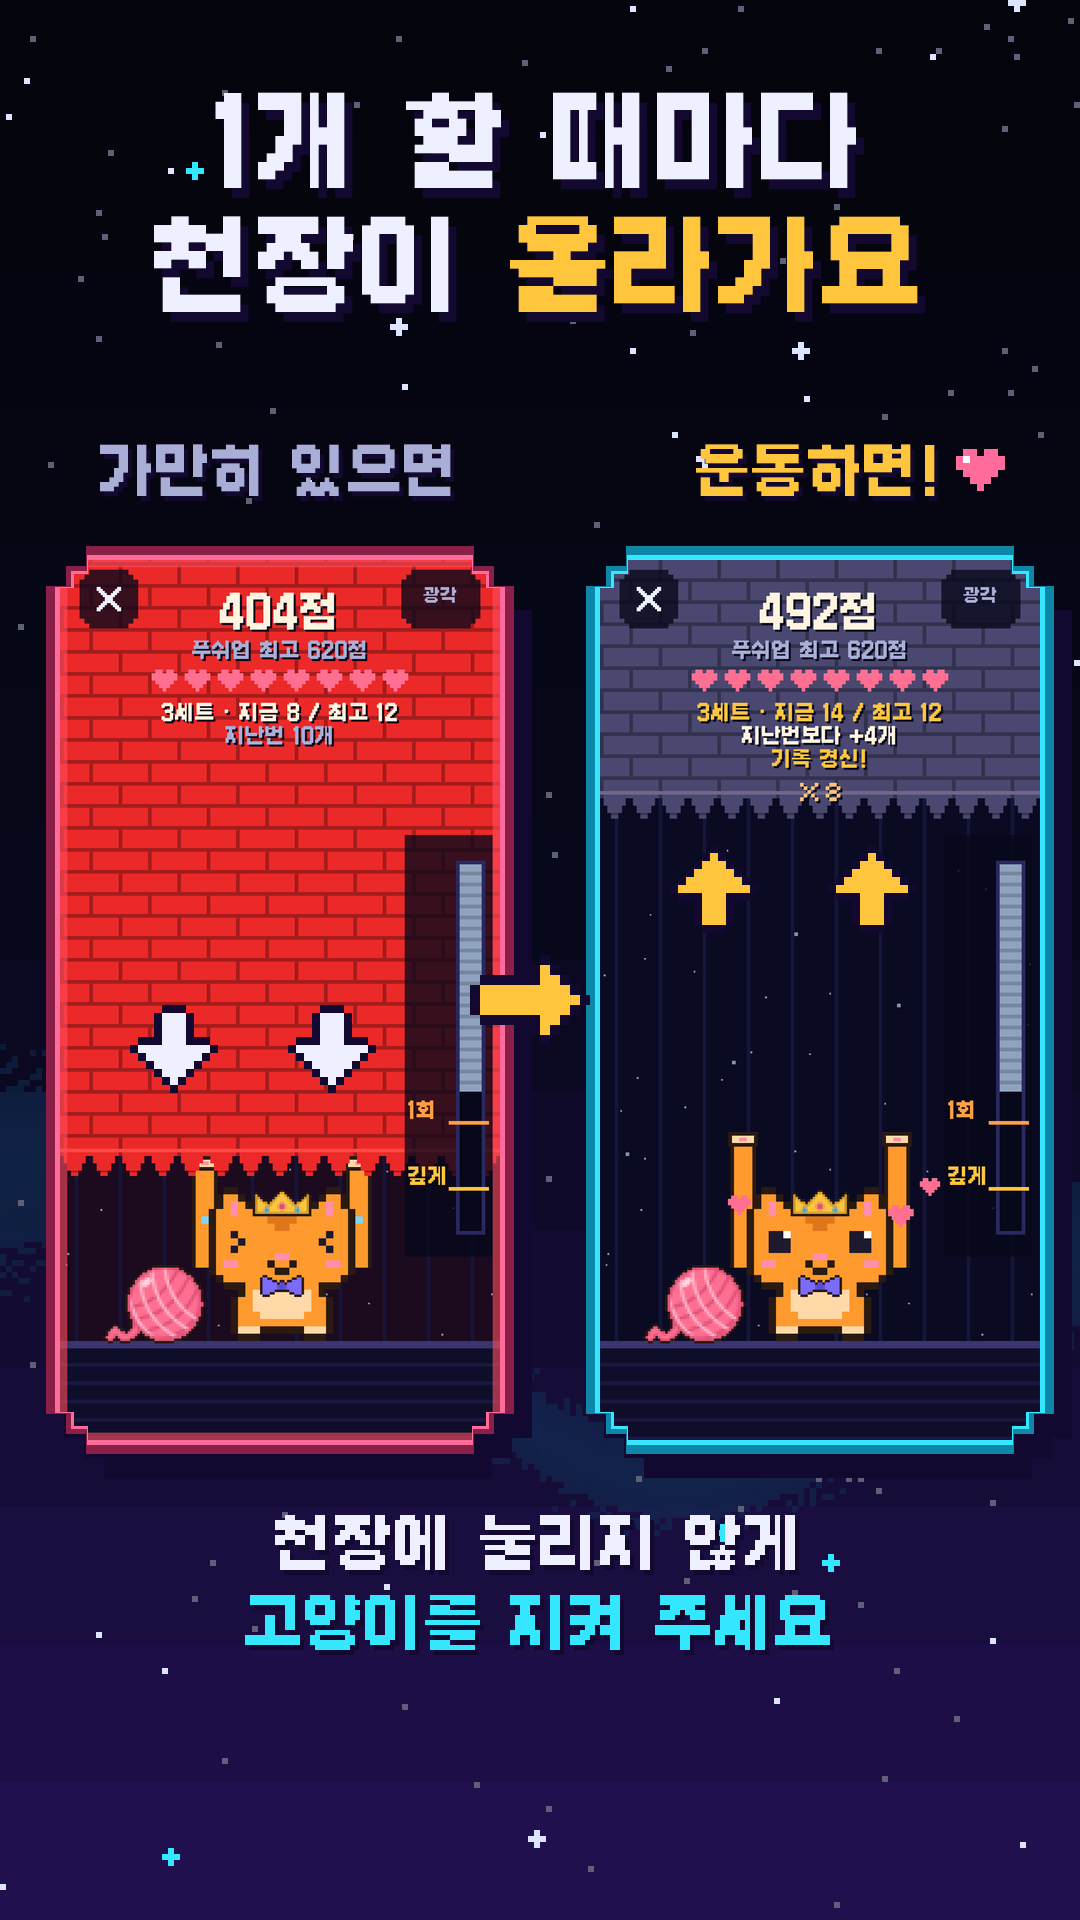
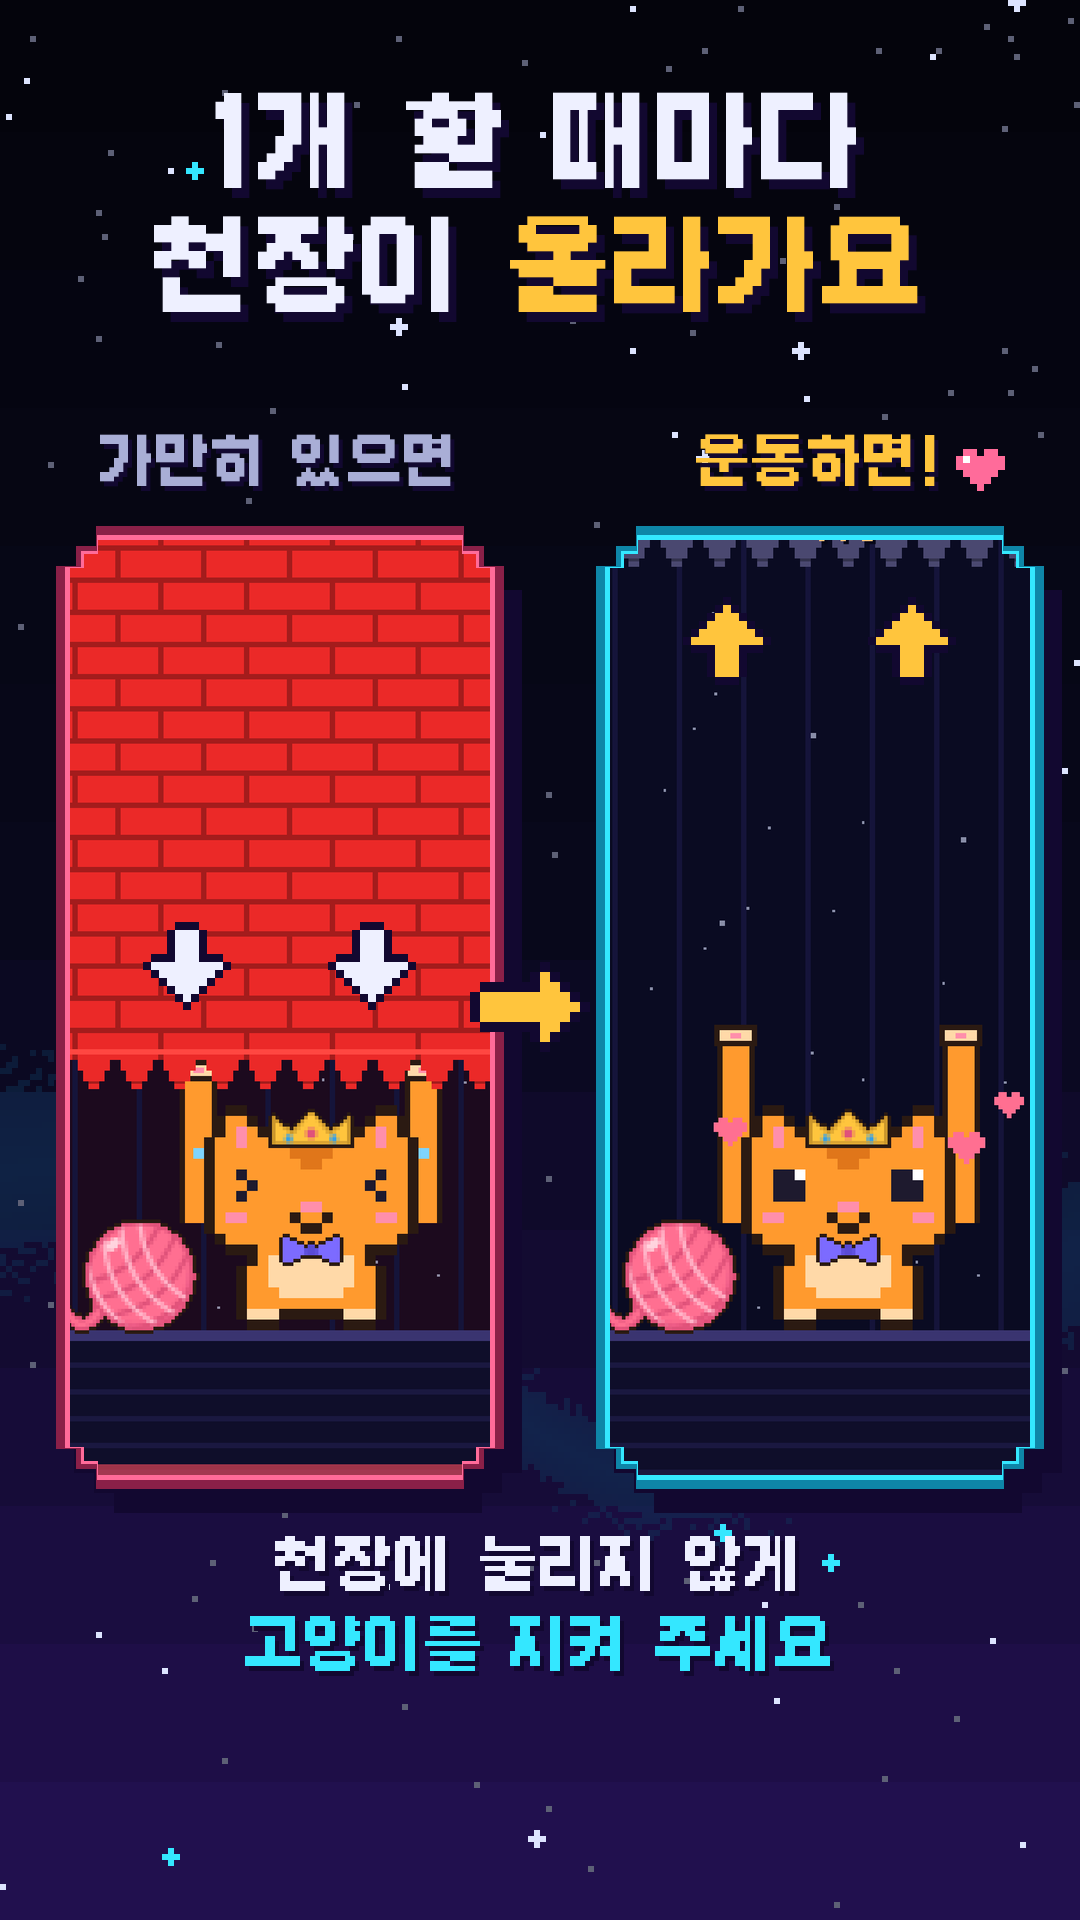
Store pictures: the reviews' fixes
From a reviewer with the code: the squat marked 시험 중 as the app marks it; 내 기록에 도전해요
(three bars had no star); no price word on the graphics (마음 놓고 운동해요); gifts as the cat's
finds, not a reward promised for exercise; 30초 as the run says it; six cats uncropped, halved
exactly.

From the blind session's second look: a line saying what a star means; a bigger phone; the run's
room without its small print or depth gauge; and the icon's figure long and low, its shoulder height
now following the arm (it was fixed at 20, so shorter arms had only stretched).

Claude-Session: https://claude.ai/code/session_01RAia6GdDjZoq4ypcKw9nRc

Changed region(s): [[0.0306, 0.2188, 1.0, 0.875]]

diff --git a/app/src/test/kotlin/com/pushuprpg/app/store/StoreScreenshots.kt b/app/src/test/kotlin/com/pushuprpg/app/store/StoreScreenshots.kt
@@ -220,4 +220,14 @@ class StoreScreenshots {
     fun cat4() = shoot("cat-4") {
         Portrait(CatCoat.MACKEREL, setOf(CatItem.HEADBAND, CatItem.SPORTS_TOWEL, CatItem.BALL, CatItem.GYM))
     }
+
+    @Test
+    @Config(qualifiers = "w300dp-h220dp-xxhdpi")
+    fun cat5() = shoot("cat-5") { Portrait(CatCoat.CREAM, setOf(CatItem.GRAD_CAP, CatItem.NECKTIE, CatItem.CITY)) }
+
+    @Test
+    @Config(qualifiers = "w300dp-h220dp-xxhdpi")
+    fun cat6() = shoot("cat-6") {
+        Portrait(CatCoat.CHEESE, setOf(CatItem.FROG_HAT, CatItem.HEART_GLASSES, CatItem.FISH_TOY, CatItem.PARK))
+    }
 }

diff --git a/tools/store_screenshots.py b/tools/store_screenshots.py
@@ -13,8 +13,8 @@ to be read.
 2. How: a person doing push-ups facing a phone on the floor, its screen called out, +1.
 3. The game: the ceiling low if you stay still, pushed up if you move.
 4. Each set against its best.
-5. Dressing the cat.
-6. Free, and no video kept.
+5. Dressing the cat: six of them, and the cat finds gifts (never promised for exercise).
+6. Peace of mind: no sign-up, no video kept. No price words: Play asks graphics not to carry them.
 
 One deep-space strip runs behind all six, so side by side in the store they read as one. Writes
 docs/store-assets/screenshots/NN.png (1080x1920) and docs/store-assets/feature-graphic.png (1024x500).
@@ -329,6 +329,16 @@ def figure(name: str, scale: int) -> tuple[Image.Image, int]:
     return up(crop, scale), (floor - box[1]) * scale
 
 
+ROOM_BOX = (140, 590, 845, 2160)  # the run's room in a 1080x2160 screen: under the HUD, the yarn in, short of the gauge's labels (x 852 on)
+
+
+def room(raw_dir: pathlib.Path, name: str, width: int) -> Image.Image:
+    """The run's room alone, the cat in the middle: the screen's small print and the depth gauge are
+    the app's, but to a stranger they were noise (the blind review of 2026-11-21)."""
+    s = Image.open(raw_dir / f"{name}.png").convert("RGB").crop(ROOM_BOX)
+    return s.resize((width, round(s.height * width / s.width)), Image.LANCZOS)
+
+
 def screen(raw_dir: pathlib.Path, name: str, width: int) -> Image.Image:
     s = Image.open(raw_dir / f"{name}.png").convert("RGB")
     return s.resize((width, round(s.height * width / s.width)), Image.LANCZOS)
@@ -362,6 +372,11 @@ def small_phone(raw_dir: pathlib.Path, k: int = 8) -> Image.Image:
 
 # ---------------------------------------------------------------- the six
 
+# Movements the app itself marks 시험 중: no recording of a real set has confirmed the count yet
+# (ExerciseDescriptor.validatedOnDevice). The pictures say what the app says.
+UNVALIDATED = {"squat"}
+
+
 def shot_movements(c: Image.Image):
     caption(c, 84, ["[맨몸운동 5가지]", "카메라가 세 줘요"])
     s = 6
@@ -385,9 +400,15 @@ def shot_movements(c: Image.Image):
         if mark is STOPWATCH:
             # Counted in time, not reps: said as a time, which a blind reviewer could not tell.
             t = font(FONT_BOLD, 64)
-            tw2 = d.textlength("0:30", font=t)
-            d.text((x + w - 56 - tw2 + 5, y + 160 + 6), "0:30", font=t, fill=SHADOW)
-            d.text((x + w - 56 - tw2, y + 160), "0:30", font=t, fill=YELLOW)
+            tw2 = d.textlength("30초", font=t)
+            d.text((x + w - 56 - tw2 + 5, y + 160 + 6), "30초", font=t, fill=SHADOW)
+            d.text((x + w - 56 - tw2, y + 160), "30초", font=t, fill=YELLOW)
+        if name in UNVALIDATED:
+            # As the app marks it (Exercises.validatedOnDevice): no real set has confirmed the count yet.
+            pf = font(FONT_BOLD, 34)
+            pw = int(d.textlength("시험 중", font=pf)) + 36
+            panel(c, x + 22, y + 22, pw, 64, fill=(0x2A, 0x28, 0x50), edge=(0x44, 0x42, 0x7A), step=8)
+            d.text((x + 40, y + 34), "시험 중", font=pf, fill=TEXT_2)
 
     card(40, 376, 1000, 350, "pushup", "푸쉬업", UPDOWN, wide=True)
     w3 = (1000 - 2 * 20) // 3
@@ -402,7 +423,7 @@ def shot_how(c: Image.Image, raw_dir: pathlib.Path):
     floor_band(c, floor_y)
     fig, floor = figure("pushup", 10)
     fx = 10
-    ph = small_phone(raw_dir, 10)
+    ph = small_phone(raw_dir, 12)
     px_, py_ = 1080 - ph.width - 40, floor_y - ph.height + 10
     # What the phone's camera sees: a pale cone from its lens to the person, drawn under them.
     lens = (px_ + 22, py_ + 26)
@@ -418,9 +439,8 @@ def shot_how(c: Image.Image, raw_dir: pathlib.Path):
     c.alpha_composite(fig, (fx, floor_y - floor))
     c.alpha_composite(ph, (px_, py_))
     # The phone's screen, called out above it: the room, not the HUD's small print.
-    full = Image.open(raw_dir / "02-push.png").convert("RGB").crop((0, 620, 1080, 2160))
-    scr = full.resize((420, round(full.height * 420 / full.width)), Image.LANCZOS)
-    sx, sy = 590, 400
+    scr = room(raw_dir, "02-push", 380)
+    sx, sy = 620, 400
     framed(c, scr, sx, sy)
     tip = (px_ + ph.width // 2, py_ - 16)
     base_y = sy + scr.height + 14
@@ -434,32 +454,33 @@ def shot_how(c: Image.Image, raw_dir: pathlib.Path):
 
 def shot_game(c: Image.Image, raw_dir: pathlib.Path):
     caption(c, 84, ["1개 할 때마다", "천장이 [올라가요]"])
-    w = 440
-    left = screen(raw_dir, "game-low", w)
-    right = screen(raw_dir, "game-high", w)
-    k = w / 1080
-    y = 560
-    text_center(c, 440, "가만히 있으면", 56, TEXT_2, x0=50, width=w + 20)
-    text_center(c, 440, "운동하면!", 56, YELLOW, x0=590, width=w + 20)
-    framed(c, left, 60, y, edge=PINK, outer=(0x8A, 0x20, 0x48))
-    framed(c, right, 600, y)
+    w = 420
+    left = room(raw_dir, "game-low", w)
+    right = room(raw_dir, "game-high", w)
+    k = w / (ROOM_BOX[2] - ROOM_BOX[0])
+    y = 540
+    text_center(c, 430, "가만히 있으면", 56, TEXT_2, x0=60, width=w + 20)
+    text_center(c, 430, "운동하면!", 56, YELLOW, x0=600, width=w + 20)
+    framed(c, left, 70, y, edge=PINK, outer=(0x8A, 0x20, 0x48))
+    framed(c, right, 610, y)
     # The ceiling's edge on each screen (rows 1481 and 603 of the 2160 the app drew), and arrows
     # saying which way it goes: a blind reviewer could not tell whether the red wall came or went.
     down = up(DOWN, 8)
-    for ax in (60 + w * 0.26, 60 + w * 0.62):
-        c.alpha_composite(down, (int(ax - down.width / 2), int(y + 1481 * k - down.height - 70)))
+    top = ROOM_BOX[1]
+    for ax in (70 + w * 0.28, 70 + w * 0.72):
+        c.alpha_composite(down, (int(ax - down.width / 2), int(y + (1481 - top) * k - down.height - 60)))
     upa = up(UP, 8)
-    for ax in (600 + w * 0.26, 600 + w * 0.62):
-        c.alpha_composite(upa, (int(ax - upa.width / 2), int(y + 603 * k + 40)))
+    for ax in (610 + w * 0.28, 610 + w * 0.72):
+        c.alpha_composite(upa, (int(ax - upa.width / 2), int(y + (603 - top) * k + 50)))
     a = up(ARROW_RIGHT, 10)
     c.alpha_composite(a, (540 - a.width // 2, y + left.height // 2 - a.height // 2))
-    text_center(c, y + left.height + 70, "천장에 눌리지 않게", 60, TEXT)
-    text_center(c, y + left.height + 150, "고양이를 지켜 주세요", 60, CYAN)
+    text_center(c, y + left.height + 56, "천장에 눌리지 않게", 60, TEXT)
+    text_center(c, y + left.height + 136, "고양이를 지켜 주세요", 60, CYAN)
     heart(c, 980, 470, k=7)
 
 
 def shot_records(c: Image.Image, raw_dir: pathlib.Path):
-    caption(c, 84, ["세트마다", "[내 기록]을 깨요"])
+    caption(c, 84, ["세트마다", "[내 기록]에 도전해요"])
     # What the run says as a set passes its best, big: now 13, best 12.
     hud = Image.open(raw_dir / "02-push.png").convert("RGB").crop((205, 336, 875, 404))
     hud = hud.resize((980, round(hud.height * 980 / hud.width)), Image.LANCZOS)
@@ -467,9 +488,14 @@ def shot_records(c: Image.Image, raw_dir: pathlib.Path):
     burst(c, 540, 770, "기록\n경신!", size=84, r=205)
     # The ending: every set of the session, the ones that beat their best starred.
     s = Image.open(raw_dir / "07-ending.png").convert("RGB")
-    chart = s.crop((120, 610, 960, 1120))
+    # Down to the end of 세트 기록을 N개 깼어요 (rows 1069-1123) and not into the 츄르 line under it
+    # (from 1137), then padded in the card's own colour so the line does not sit on the frame.
+    cut = s.crop((120, 610, 960, 1130))
+    chart = Image.new("RGB", (cut.width, cut.height + 26), s.getpixel((140, 1128)))
+    chart.paste(cut, (0, 0))
     chart = chart.resize((980, round(chart.height * 980 / chart.width)), Image.LANCZOS)
     framed(c, chart, 50, 1000, edge=YELLOW, outer=YELLOW_DARK)
+    text_center(c, 1000 + chart.height + 60, "★ 그 세트의 최고 기록을 깼어요", 46, TEXT_2, bold=False)
     sparkle(c, 110, 700, 4, YELLOW)
     sparkle(c, 980, 640, 3)
     heart(c, 140, 900, k=7)
@@ -478,31 +504,29 @@ def shot_records(c: Image.Image, raw_dir: pathlib.Path):
 
 def shot_cats(c: Image.Image, raw_dir: pathlib.Path):
     caption(c, 84, ["[고양이]를 꾸며요"])
-    text_center(c, 230, "모자, 안경, 배경까지 50가지 넘게", 46, CYAN, bold=False)
-    size = 470
-    for i in range(4):
+    text_center(c, 230, "모자·안경·배경까지 50가지가 넘어요", 46, CYAN, bold=False)
+    for i in range(6):
         p = Image.open(raw_dir / f"cat-{i + 1}.png").convert("RGB")
-        side = min(p.width, p.height)
-        p = p.crop(((p.width - side) // 2, (p.height - side) // 2, (p.width + side) // 2, (p.height + side) // 2))
-        p = p.resize((size, size), Image.LANCZOS)
-        x = 55 + (i % 2) * (size + 30)
-        y = 400 + (i // 2) * (size + 40)
-        framed(c, p, x, y, edge=CYAN if i % 3 == 0 else PINK, outer=CYAN_EDGE if i % 3 == 0 else (0x8A, 0x20, 0x48))
-    for hx, hy in [(120, 1460), (960, 1500), (540, 1560)]:
+        # Exactly half: the art's cells stay whole, where a centre crop cut the toys off.
+        p = p.resize((p.width // 2, p.height // 2), Image.BOX)
+        x = 70 + (i % 2) * (p.width + 40)
+        y = 380 + (i // 2) * (p.height + 44)
+        pink = i in (1, 2, 5)
+        framed(c, p, x, y, edge=PINK if pink else CYAN, outer=(0x8A, 0x20, 0x48) if pink else CYAN_EDGE)
+    text_center(c, 1560, "고양이가 선물을 찾아와요", 64, TEXT)
+    for hx, hy in [(130, 1700), (950, 1690), (540, 1770)]:
         heart(c, hx, hy, k=8)
-    text_center(c, 1620, "운동할수록 선물이 와요", 60, TEXT)
 
 
 def shot_free(c: Image.Image, raw_dir: pathlib.Path):
-    caption(c, 84, ["[전부 무료]예요"])
+    caption(c, 84, ["[마음 놓고] 운동해요"])
     rows = [
-        "모든 운동 · 모든 세트",
-        "회원가입 없이 바로 시작",
+        "가입 없이 바로 시작해요",
         "영상은 저장하지 않아요",
     ]
     f = font(FONT_BOLD, 62)
     d = ImageDraw.Draw(c)
-    y = 360
+    y = 380
     for t in rows:
         panel(c, 70, y, 940, 170)
         chk = up(CHECK, 9)
@@ -512,9 +536,9 @@ def shot_free(c: Image.Image, raw_dir: pathlib.Path):
         y += 200
     # The cat, glad.
     run = Image.open(raw_dir / "02-push.png").convert("RGB").crop((150, 1380, 800, 1960))
-    run = run.resize((run.width * 13 // 10, run.height * 13 // 10), Image.LANCZOS)
-    framed(c, run, (W - run.width) // 2, 1000)
-    for hx, hy in [(130, 1180), (950, 1120), (980, 1500)]:
+    run = run.resize((run.width * 14 // 10, run.height * 14 // 10), Image.LANCZOS)
+    framed(c, run, (W - run.width) // 2, 860)
+    for hx, hy in [(110, 1060), (970, 1000), (990, 1460), (90, 1500)]:
         heart(c, hx, hy, k=8)
 
 
@@ -559,7 +583,7 @@ def feature(raw_dir: pathlib.Path) -> Image.Image:
     d = ImageDraw.Draw(img)
     for (t, f, col, x, y) in [
         ("고양이 지켜줘", font(FONT_BOLD, 40), CYAN, 56, 40),
-        ("맨몸운동 5가지,", font(FONT_BOLD, 64), TEXT, 56, 98),
+        ("맨몸운동 5가지", font(FONT_BOLD, 64), TEXT, 56, 98),
         ("카메라가 세 줘요", font(FONT_BOLD, 64), YELLOW, 56, 176),
     ]:
         d.text((x + 5, y + 7), t, font=f, fill=SHADOW)

diff --git a/tools/pixel_people.py b/tools/pixel_people.py
@@ -251,7 +251,10 @@ def pushup(down: bool = False, mid: bool = True) -> tuple[Image.Image, int]:
     s = Sprite(78, 36)
     floor = s.h - 3
     wrist = (60.0, floor - 1.4)
-    height = 9.5 if down else (15.0 if mid else 20.0)
+    # The shoulder over the hand by the arm's length at the top, three quarters of it halfway, about
+    # half at the bottom (20, 15 and 9.5 at the default lengths), so other proportions stay a push-up.
+    reach = UPPER_ARM + FOREARM + 1.0
+    height = reach * (0.475 if down else (0.75 if mid else 1.0))
     shoulder = (wrist[0] - (1.0 if down or mid else 0.0), floor - height)
     dec = solve_decline(shoulder[1], floor)
     d, hip, knee, ankle, toe = body_line(shoulder, dec, floor)

diff --git a/tools/pixel_icon.py b/tools/pixel_icon.py
@@ -134,7 +134,9 @@ def background(floor_y: int):
 
 # ---------------------------------------------------------------- the variants
 
-CHIBI = dict(torso=13.5, thigh=10.5, shin=10.5, upper_arm=8.5, forearm=7.5, head_r=6.6)
+# Long in the body and short in the arm, so the push-up's straight line from head to heels lies
+# low: with longer arms it stood steep and read as crawling at 48 dp (the blind review, 2026-11-21).
+CHIBI = dict(torso=15.0, thigh=12.0, shin=12.0, upper_arm=7.0, forearm=6.5, head_r=6.6)
 
 
 def pushup_cat():

diff --git a/docs/STORE_LISTING.md b/docs/STORE_LISTING.md
@@ -158,12 +158,23 @@ screenshots of the game with captions about the ceiling) failed that: no person 
 
 | # | Picture | Caption |
 |---|---------|---------|
-| 1 | The five movements in cards, named | 맨몸운동 5가지 / 카메라가 세 줘요 |
-| 2 | A person doing push-ups facing a phone on the floor, its camera's view drawn, its screen called out, +1 | 폰만 세워 두면 / 개수를 세 줘요 |
-| 3 | Two screens: the ceiling on the cat (arrows down) and pushed up (arrows up) | 1개 할 때마다 / 천장이 올라가요 |
-| 4 | 지금 13 / 최고 12 from the run, a 기록 경신 burst, the ending's chart of sets | 세트마다 / 내 기록을 깨요 |
-| 5 | Four cats in outfits and scenes | 고양이를 꾸며요 |
-| 6 | Three promises, the cat | 전부 무료예요 |
+| 1 | The five movements in cards, named; the squat marked 시험 중 as the app marks it | 맨몸운동 5가지 / 카메라가 세 줘요 |
+| 2 | A person doing push-ups facing a phone on the floor, its camera's view drawn, the run's room called out, +1 | 폰만 세워 두면 / 개수를 세 줘요 |
+| 3 | Two rooms: the ceiling on the cat (arrows down) and pushed up (arrows up) | 1개 할 때마다 / 천장이 올라가요 |
+| 4 | 지금 13 / 최고 12 from the run, a 기록 경신 burst, the ending's chart of sets, ★ explained | 세트마다 / 내 기록에 도전해요 |
+| 5 | Six cats in outfits and scenes | 고양이를 꾸며요 / 고양이가 선물을 찾아와요 |
+| 6 | Two promises, the cat | 마음 놓고 운동해요 |
+
+Rules the pictures keep, from the reviews:
+
+- **Only what the app says.** A movement the app marks 시험 중 (`ExerciseDescriptor.validatedOnDevice`
+  false) is marked so in the picture too; a plank is counted in seconds (30초, as the run says it).
+- **No price words on the graphics** ("무료", "free"): Play's guidance for preview assets. The listing's
+  text and Play's own price label say it.
+- **Gifts are the cat's finds**, never a reward promised for exercise (the gifts rule in CLAUDE.md):
+  고양이가 선물을 찾아와요, not 운동할수록 선물이 와요.
+- **No jargon a stranger cannot read**: 츄르 is not named; the run's small print and depth gauge are
+  cropped away where the room is what matters (`ROOM_BOX`).
 
 ### How they were checked
 
@@ -180,7 +191,14 @@ Each round was shown to reviewers who had not made them, in parallel with the wo
   고양이 게임"; the new one as a fitness app. What it could not tell, fixed since: which way the ceiling
   moves (3, now arrows), where the phone stands (2, now larger, with its camera's view), whether a plank
   is counted (1, now 0:30), why the tallest bar had no star (4), and what 츄르 is (5, no longer named).
-- **Claims and copy**, by a reviewer with the code: every caption checked against the app.
+- **Claims and copy**, by a reviewer with the code: every caption checked against the app. It caught
+  "세트마다 내 기록을 깨요" (three bars had no star: now 도전해요), "전부 무료" (a price word),
+  "운동할수록 선물이 와요" (a promised reward, which the app avoids), the squat being 시험 중 in the
+  app, 0:30 where the app says 30초, and a crop that cut the cats' toys off.
+- **The blind session, a second time**, on the fixed pictures: 1, 2, 3, 5 and 6 understood at once
+  ("03: 위/아래 화살표로 방향 완전히 이해됨"). It still guessed at the stars (4, now explained in one
+  line), found the phone small (2, larger), the run's small print meaningless (2 and 3, cropped away)
+  and the icon's figure steep enough to read as crawling (now long and low).
 
 Do the same after any change: a person who has never seen the app should say what it does from the
 search result alone.
